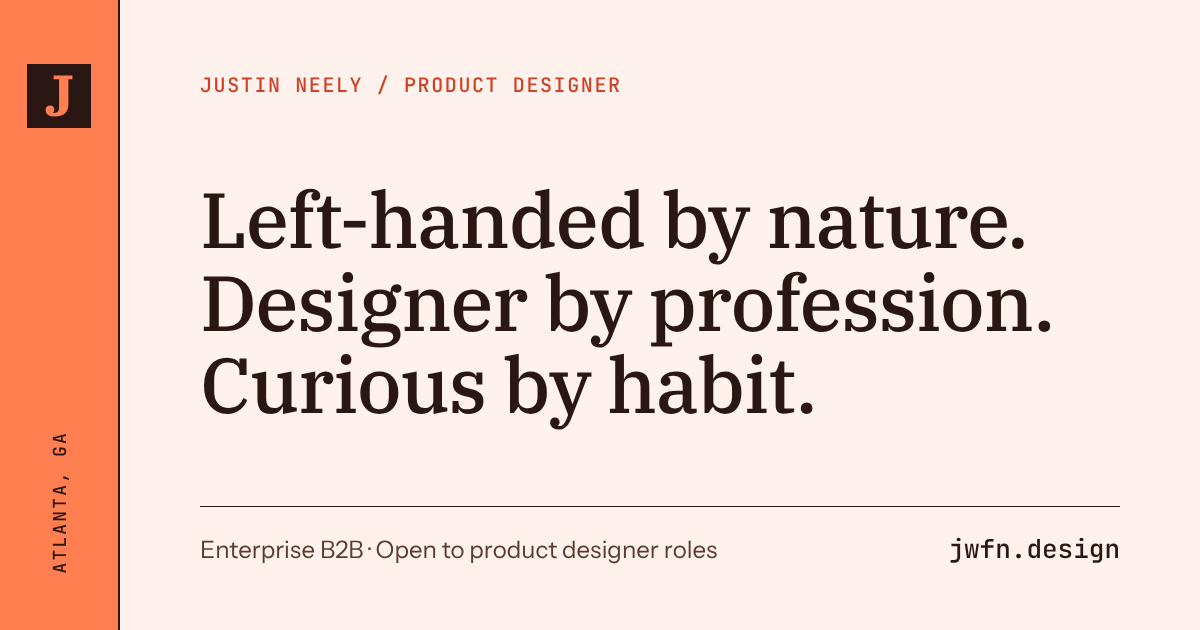
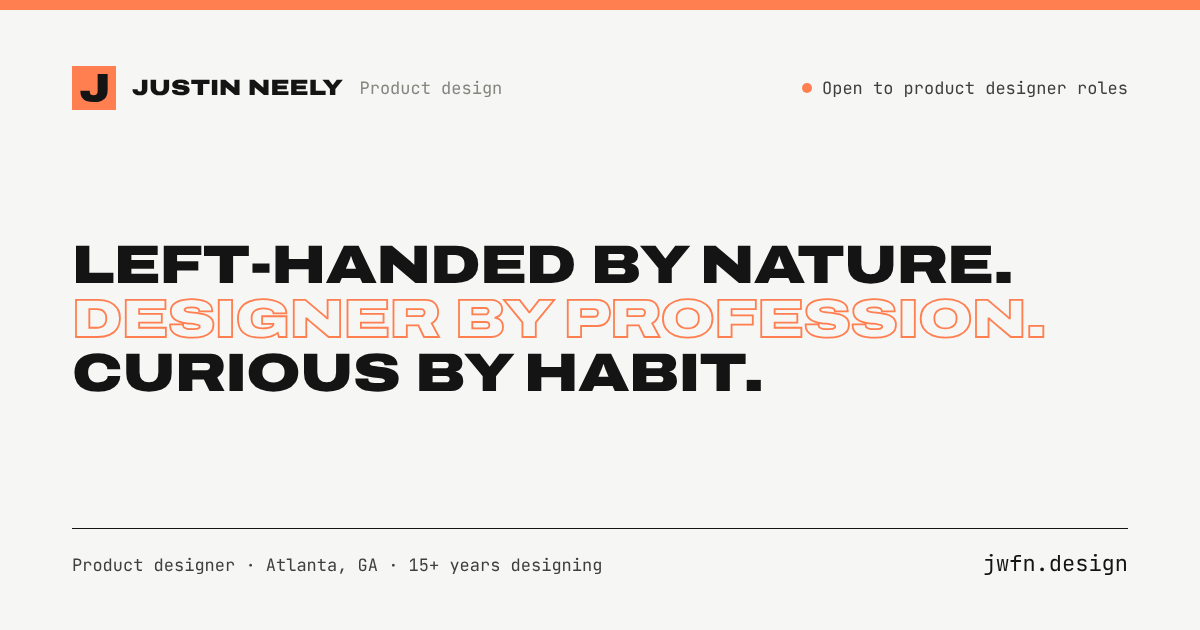
New link-preview image in the current design
Off-white card with the coral J and wordmark, the three-line sign-off in
extended caps (coral outline on the middle line), and 'Product designer ·
Atlanta, GA · 15+ years designing' with jwfn.design. Drops 'Enterprise
B2B'. Cache-busting query bumped to v=6.

Claude-Session: https://claude.ai/code/session_01LAGKUiuetwEyqTaRNwJfzB

Changed region(s): [[0.0, 0.0, 1.0, 1.0], [0.7708, 0.8444, 0.9558, 0.9048], [0.6475, 0.1206, 0.9558, 0.1508]]

diff --git a/index.html b/index.html
@@ -12,7 +12,7 @@
     <meta property="og:title" content="Justin Neely, Product Designer" />
     <meta property="og:description" content="Left-handed by nature. Designer by profession. Curious by habit." />
     <meta property="og:url" content="https://jwfn.design" />
-    <meta property="og:image" content="https://jwfn.design/og-image.png?v=5" />
+    <meta property="og:image" content="https://jwfn.design/og-image.png?v=6" />
     <meta property="og:image:width" content="1200" />
     <meta property="og:image:height" content="630" />
     <meta property="og:image:alt" content="Justin Neely, Product Designer: Left-handed by nature. Designer by profession. Curious by habit. jwfn.design" />
